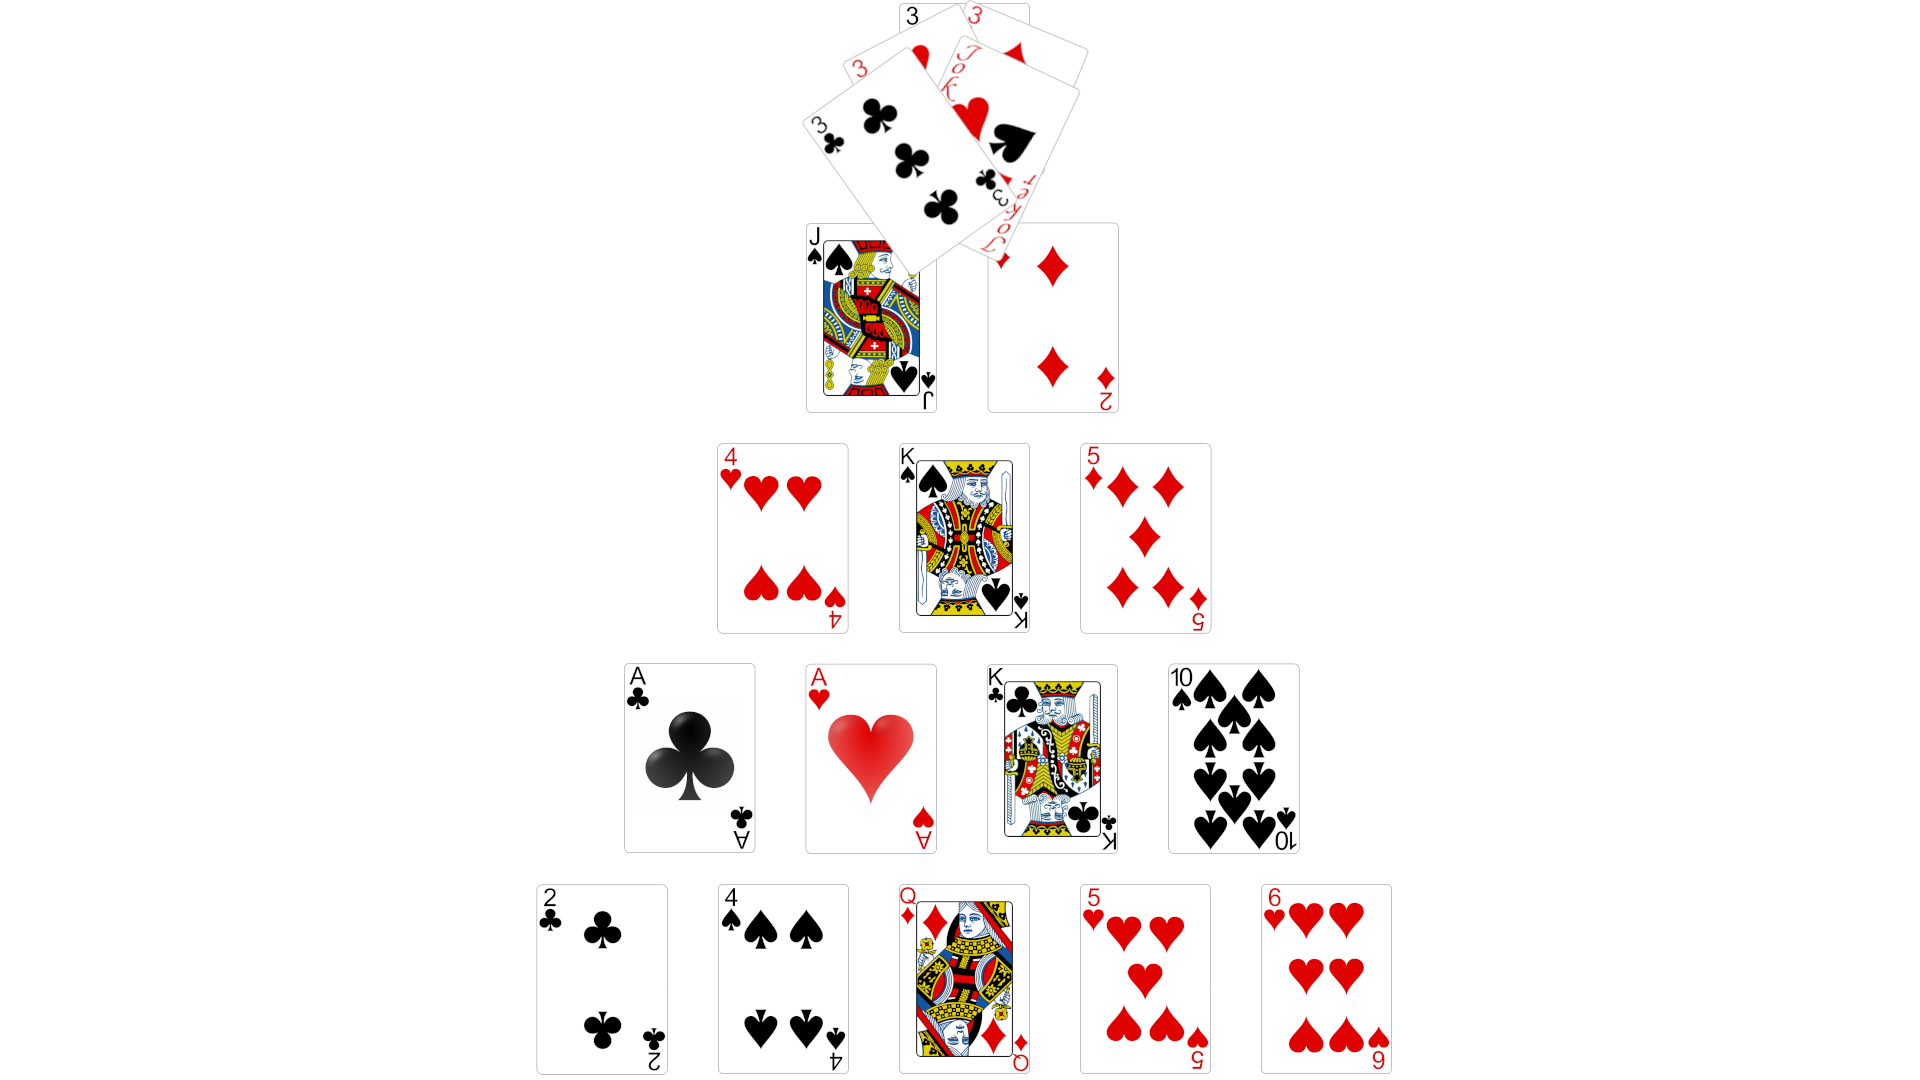
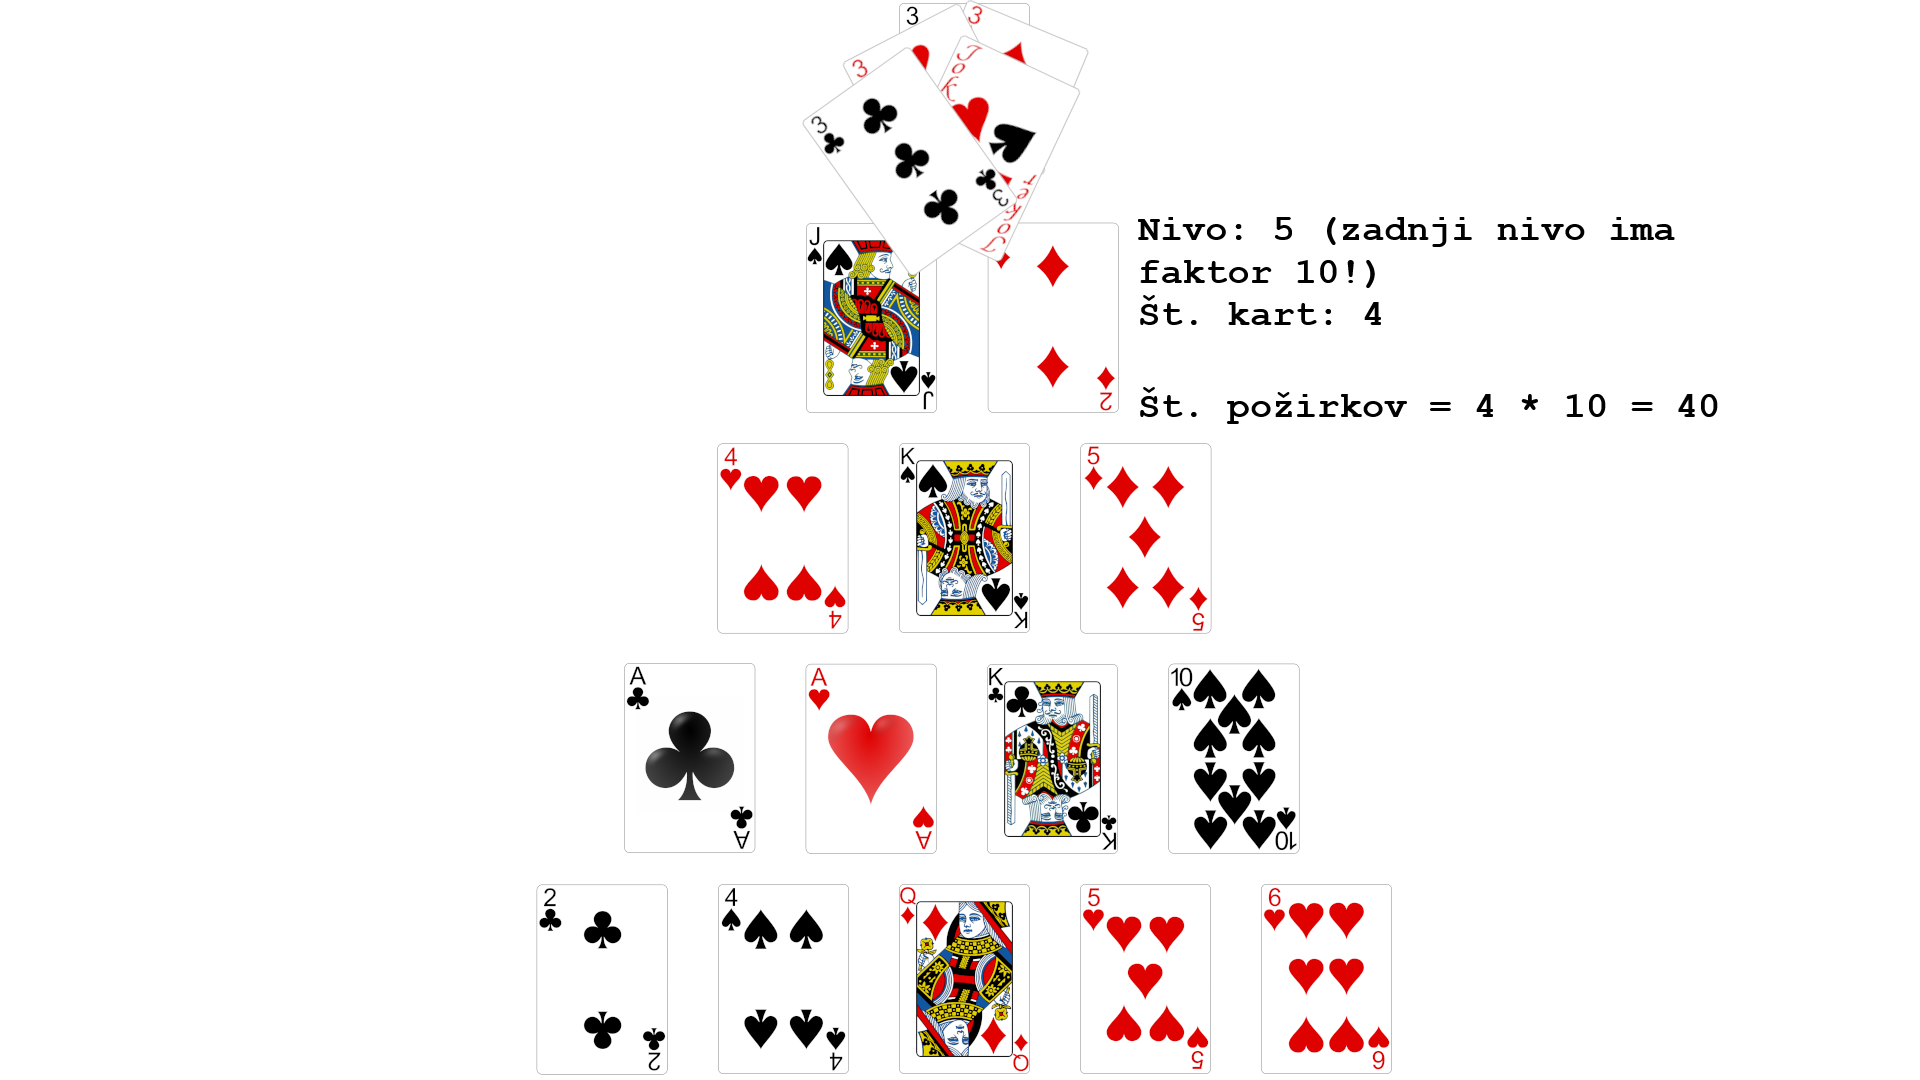
whatever

diff --git a/src/app/home/home.component.html b/src/app/home/home.component.html
@@ -8,7 +8,7 @@
         na različne faktorje.<br /><br /> Cilj te spletne strani je standardizacija in specifikacija pravil igre, saj se le-ta lahko bistveno razlikujejo od vasi do vasi.
         To stran lahko uporabite kot referenčna pravila v primeru nesporazuma o specifikah, ali kot navodila igre. 
     </p>
-  
+    <!-- zamejnej "delitelj" za "busmaster" -->
     <div class="mt-8 space-y-6 max-w-lg">
         <app-collapsible-section [title]="'Predpostavke'">
             <p>
@@ -34,6 +34,9 @@
             <p>
                 V navodilih predpostavljamo, da bo piramida visoka 5 kart, vendar je višina poljubna. V primeru večjega števila igralcev, je višino piramide smiselno povečati.
             </p>
+            <p>
+                Po postavljeni piramidi delitelj nato razdeli karte tudi med igralce. Število kart, ki jih dobi vsak igralec je enako višini piramide (pri standardni piramidi višine 5 torej vsi igralci dobijo 5 kart)
+            </p>
             <app-collapsible-subsection [title]="'Zanimivost'">
                 <p class="extra">
                     Število kart na vsakem nivoju je lahko definiramo z: <code class="inline-code" style="padding: 3px">n<sub>i</sub>=h-i+1</code>,
@@ -41,10 +44,6 @@
                     <code class="inline-code" style="padding: 3px">log<sub>2</sub>(n+1)+1=h</code>, kjer je n = št. kart, i = nivo (oz. "nadstropje") piramide in h = višina piramide. 
                 </p>
             </app-collapsible-subsection>
-            <p>
-                Po postavljeni piramidi delitelj nato razdeli karte tudi med igralce. Tako kot z višino same piramide, tudi tukaj predpostavimo, da vsak igralec dobi <code class="inline-code" style="padding: 3px">5</code> kart, vendar je
-                število kart smiselno prilagoditi številu igralcev.
-            </p>
         </app-collapsible-section> 
 
         <app-collapsible-section [title]="'Začetek igre'">
@@ -58,7 +57,17 @@
             <p>
                 Če ni bilo odložene nobene karte, ko delitelj prešteje do 0, enostavno nadaljujemo z naslednjo karto. V primeru, da so bile karte odložene pa igralec, ki je <b>ZADNJI</b> odložil karto razdeli požirke med preostale igralce, po pravilih katere bomo razložili v naslednjem poglavju.
                 <b>POMEMBNO:</b> Ko prvi igralec položi karto, lahko delitelj preneha odštevati. Od te točke naprej lahko preostali igralci še vedno polagajo karte na kup, dokler se eden od igralcev, kateremu je bilo dodeljeno pitje, ne takne ustnic z pločevinko/kozarcem (tudi če je preminulo že >5 sekund).
+                V naslednjih primerih:
             </p>
+
+            <ul>
+                <li>Igralčeva karta se dotakne mize, ko je delitelj že odštel do 0</li>
+                <li>Igralec položi karto, ko je igralec, kateremu so bili dodeljeni požirkim že naredil požirek</li>
+                <li>Igralec položi neustrezno karto</li>
+            </ul>
+
+            <p>Pa mora igralec, ki je storil napako, za kazen spiti vse požirke, katerih so preostali igralci oproščeni.</p>
+
             <app-collapsible-subsection [title]="'Primer za lažjo predstavo'">
                 <p>
                     Predpostavimo, da imamo <code class="inline-code" style="padding: 3px">4</code> igralce: <code class="inline-code" style="padding: 3px">A</code>, <code class="inline-code" style="padding: 3px">B</code>, <code class="inline-code" style="padding: 3px">C</code> in <code class="inline-code" style="padding: 3px">D</code>.
@@ -77,12 +86,54 @@
         </app-collapsible-section>
 
         <app-collapsible-section [title]="'Računanje požirkov'">
-            Število požirkov, ki jih ima za dodeljevanje na voljo igralec, ki je zadnji položil karto, je odvisna od števila kart ter trenutnim nivojem piramide.
-            Formula za izračun: <code class="inline-code" style="padding: 3px">p=k*i</code>, kjer je p = števio požirkov, k = številu kart na kupu (brez originalne) ter i = trenutni nivo piramide.
-            Edina izjema je, zadnji nivo, kjer je faktor množenja = <code class="inline-code" style="padding: 3px">10</code>!
+            <p>
+                Število požirkov, ki jih ima za dodeljevanje na voljo igralec, ki je zadnji položil karto, je odvisna od števila kart ter trenutnim nivojem piramide.
+                Formula za izračun: <code class="inline-code" style="padding: 3px">p=k*i</code>, kjer je p = števio požirkov, k = številu kart na kupu (brez originalne) ter i = trenutni nivo piramide.
+                Edina izjema je, zadnji nivo, kjer je faktor množenja = <code class="inline-code" style="padding: 3px">2*h</code>, kjer je h = višina piramide! Npr. pri standardni igri, z piramido višine 5, je ta faktor 10.
+             </p>
             <app-collapsible-subsection [title]="'Primer'">
-
+                <img src="../../karte_3.png" alt="primer izračuna požirkov" class="w-1/3 md:w-1/5 lg:w-1/6 xl:w-1/8 h-auto mx-auto" />
+                <img src="../../karte_4.png" alt="primer izračuna požirkov" class="w-1/3 md:w-1/5 lg:w-1/6 xl:w-1/8 h-auto mx-auto" />
+                <img src="../../karte_5.png" alt="primer izračuna požirkov" class="w-1/3 md:w-1/5 lg:w-1/6 xl:w-1/8 h-auto mx-auto" />
             </app-collapsible-subsection>
+            <p>
+                Igralec, kateremu je bilo dodeljeno število požirkov, ki je večje od 10, se lahko odloči, da skupine po 10 požirkov zamenja za shote 0.03L žgane pijače (40% alk.). Npr. 20 požirkov lahko zamenja za 2 shota.
+            </p>
+        </app-collapsible-section>
+
+        <app-collapsible-section [title]="'Zaključek igre'">
+            <p>
+                Ko delitelj odkrije zadnjo karto v vrhu piramide, in so požirki med igralce dokončno porazdeljeni, je naslednji korak določitev igralca, ki gre na "avtobus". Igralec, ki gre na avtobus je tisti, ki ima na koncu igre največ kart. V primeru,
+                da na tak način igralca ni mogoče določiti, saj ima več igralcev isto število kart, mora delitelj premešati kupček kart, in vsak od igralcev z največjim številom kart naključno vleče karto, brez da bi jo pogledal. Igralec, ki povleče <b>najnižjo</b> karto,
+                nato nadaljuje naprej na avtobus. V primeru, da več igralcev povleče isto najnižjo karto, ponovno premešajte kupček in tej igralci ponovno vlečejo karto. Proces ponavljajte, dokler le eden od igralcev nima unikatne najnižje karte.
+            </p>
+        </app-collapsible-section>
+
+        <app-collapsible-section [title]="'Avtobus'">
+           <p>Ko je določen igralec, ki gre na avtobus, busmaster ponovno zmeša kupček kart, in jih <code class="inline-code" style="padding: 3px">5</code> odkritih postavi v horizontalno vrsto, kot prikazuje spodnja slika.</p>
+           <img src="../../bus_init.png" alt="začetna postavitev avtobusa" class="w-1/3 md:w-1/5 lg:w-1/6 xl:w-1/8 h-auto mx-auto" />
+           <p>
+                Igralec začne na skrajno levi karti, in se premika proti desni. Pri vsaki karti busmaster igralca vpraša, če meni da bo karta, katero bo na slepo vlekel iz vrha kupa, višja ali nižja od trenutne karte.
+                Če igralec ugane pravilno, nadaljuje naprej na naslednjo karto, kjer ponovno ugiba. Če pa se igralec zmoti, pa ponovno začne na prvi karti na skrajno levi, in spije število požirkov, 
+                ki je enako "globini" avtobusa (v prvi rundi, ko je na mizi 5 kart, je to globina 1) zmnoženi s zaporednim številom kart, na katerim se je zmotil (praktični primer v LINK). Če se igralec vrne na začetek se od tam naprej upošteva 
+                zadnja karta na vrhu "kupa", in ne ponovno originalna karta. V primeru, da je izvlečena karta istega števila kot karta pod njo, se lahko igralec ponovno odloči za višje/nižje, medtem ko busmaster povleče naslednjo karto.
+                Tako kot pri prejšnji fazi igre, tukaj velja, da je <code class="inline-code" style="padding: 3px">2</code> najnižja karta, <code class="inline-code" style="padding: 3px">joker</code> pa najvišja.
+           </p>
+           <p>
+                Ko igralec uspešno prispe do konca vrste in pravilno ugane peto karto, busmaster ponovno postavi avtobus, le da tokrat z eno kart manj. Ta proces ponavljajte, dokler na mizi ni le ena karta, in jo igralec pravilno ugane.
+                Tako kot pri piramidi, je tudi na avtobusu število požirkov odvisno od globine avtobusa:
+           </p>
+           <ul>
+                <li>1. nivo (5 kart) - faktor x1</li>
+                <li>2. nivo (4 karte) - faktor x2</li>
+                <li>...</li>
+           </ul>
+            <p>Tako kot pri piramidi višine 5, je tudi na avtobusu faktor množitve pri zadnji globini (kjer je 5. nivo oz. 1 karta) enak x10. Igralec lahko tudi na avtobusu skupine po 10 požirkov zamenja za shot</p>
+
+           <app-collapsible-subsection [title]="'Primer'">
+                
+           </app-collapsible-subsection>
+
         </app-collapsible-section>
 
     </div>
